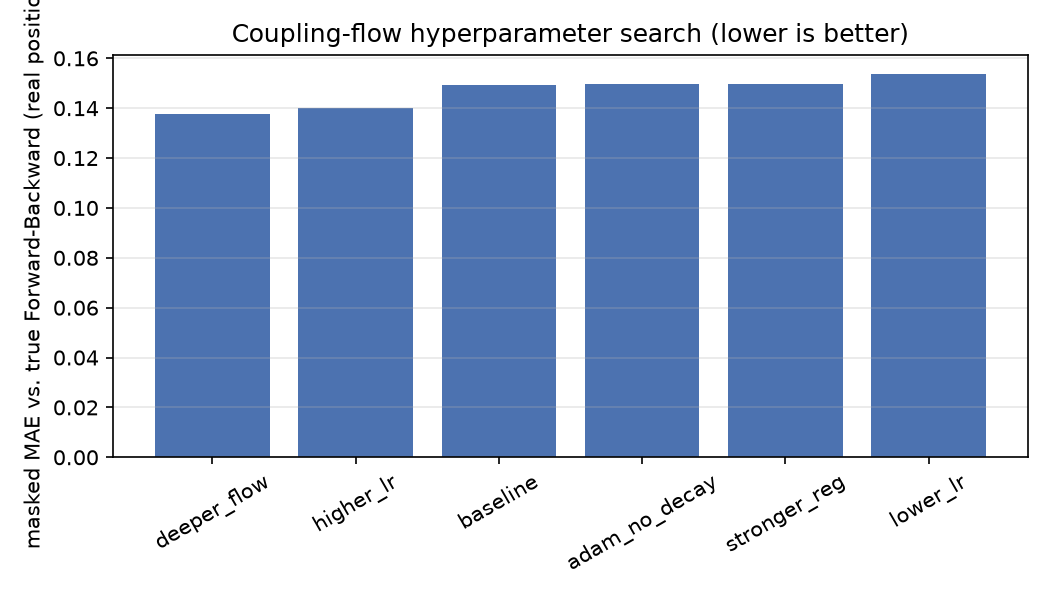
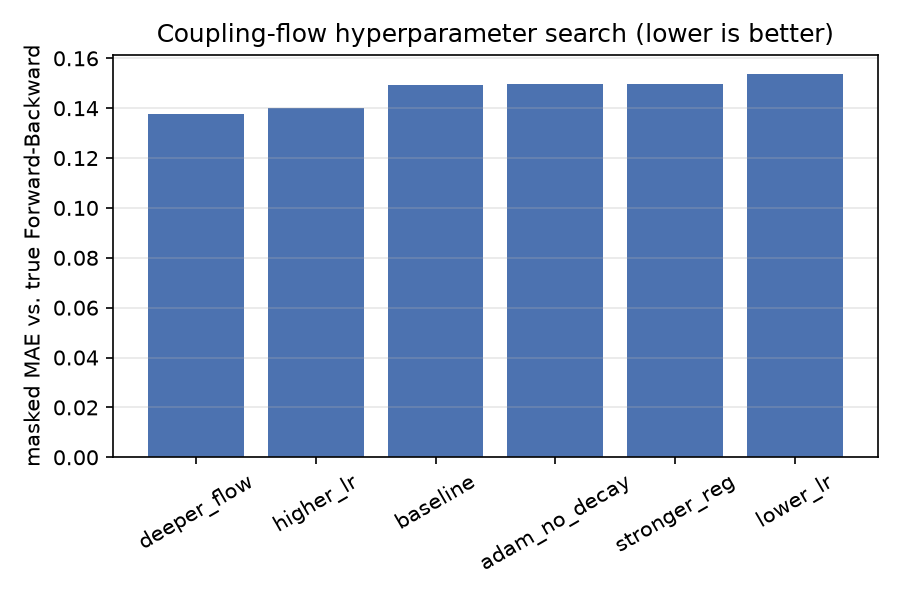
Adjust hyperparameter search plot size and update y-axis label for clarity

diff --git a/training.py b/training.py
@@ -669,9 +669,9 @@ def plot_hyperparameter_search(results: pd.DataFrame, out_path: str) -> None:
     matplotlib.use("Agg")
     import matplotlib.pyplot as plt
 
-    fig, ax = plt.subplots(figsize=(7, 4))
+    fig, ax = plt.subplots(figsize=(6, 4))
     ax.bar(results["name"], results["masked_mae"], color="#4C72B0")
-    ax.set_ylabel("masked MAE vs. true Forward-Backward (real positions)")
+    ax.set_ylabel("masked MAE vs. true Forward-Backward")
     ax.set_title("Coupling-flow hyperparameter search (lower is better)")
     ax.tick_params(axis="x", rotation=30)
     ax.grid(axis="y", alpha=0.3)

diff --git a/slides/latex/presentation.tex b/slides/latex/presentation.tex
@@ -714,7 +714,7 @@ diagnostics code, not in this data layer. Also mention you prepared the human in
 \textbf{\textcolor{darkgreen}{Converged, not stuck.}}\;
 Soft targets $\Rightarrow$ BCE has an \textbf{entropy floor}; it cannot reach zero.\\[2pt]
 Validation: floor $\overline{H}=\mathbf{0.4621}$ \; achieved $=\mathbf{0.4623}$ \;$\Rightarrow$\;
-\textcolor{darkgreen}{\textbf{0.0002 from the theoretical limit}}.
+\textcolor{darkgreen}{\textbf{0.0003 from the theoretical limit}}.
 }}
 };
 \end{tikzpicture}
